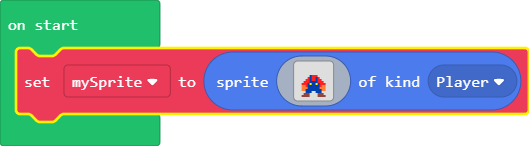
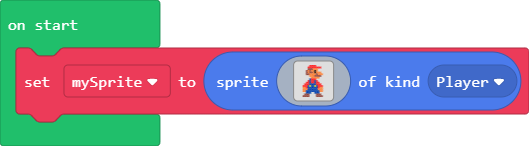
finished drawing mario

Changed region(s): [[0.0, 0.3014, 1.0, 0.8493], [0.5444, 0.4384, 0.6352, 0.6575]]

diff --git a/main.ts b/main.ts
@@ -1,18 +1,21 @@
 let mySprite = sprites.create(img`
-. . . . . . . . . . . . . . . . 
-. . . . . . . . . . . . . . . . 
-. . . . . . . . . . . . . . . . 
-. . . . . . . . . . . . . . . . 
-. . . . . . . . . . . . . . . . 
-. . . . . . 8 2 2 2 . . . . . . 
-. . . . . 2 8 2 2 8 2 . . . . . 
-. . . . 2 2 8 2 2 8 2 2 . . . . 
-. . . 2 2 2 8 8 8 8 2 2 2 . . . 
-. . 2 2 2 8 5 8 8 5 8 2 2 2 . . 
-. . 4 4 2 8 8 8 8 8 8 2 4 4 . . 
-. . 4 4 4 8 8 8 8 8 8 4 4 4 . . 
-. . 4 4 8 8 8 8 8 8 8 8 4 4 . . 
-. . . . 8 8 8 . . 8 8 8 . . . . 
-. . . e e e . . . . e e e . . . 
-. . e e e e . . . . e e e e . . 
+. . . . 2 2 2 2 . . . . 
+. . . 2 2 2 2 2 2 2 2 . 
+. . . e e e 4 4 4 . . . 
+. . e 4 e 4 4 f 4 . . . 
+. . e 4 e e 4 f 4 4 4 . 
+. . e e 4 4 4 4 e 4 4 4 
+. . . . 4 4 4 e e e e . 
+. . . . . 4 4 4 4 4 . . 
+. . . . 8 2 2 2 . . . . 
+. . . 2 8 2 2 8 2 . . . 
+. . 2 2 8 2 2 8 2 2 . . 
+. 2 2 2 8 8 8 8 2 2 2 . 
+2 2 2 8 5 8 8 5 8 2 2 2 
+4 4 2 8 8 8 8 8 8 2 4 4 
+4 4 4 8 8 8 8 8 8 4 4 4 
+4 4 8 8 8 8 8 8 8 8 4 4 
+. . 8 8 8 . . 8 8 8 . . 
+. e e e . . . . e e e . 
+e e e e . . . . e e e e 
 `, SpriteKind.Player)
